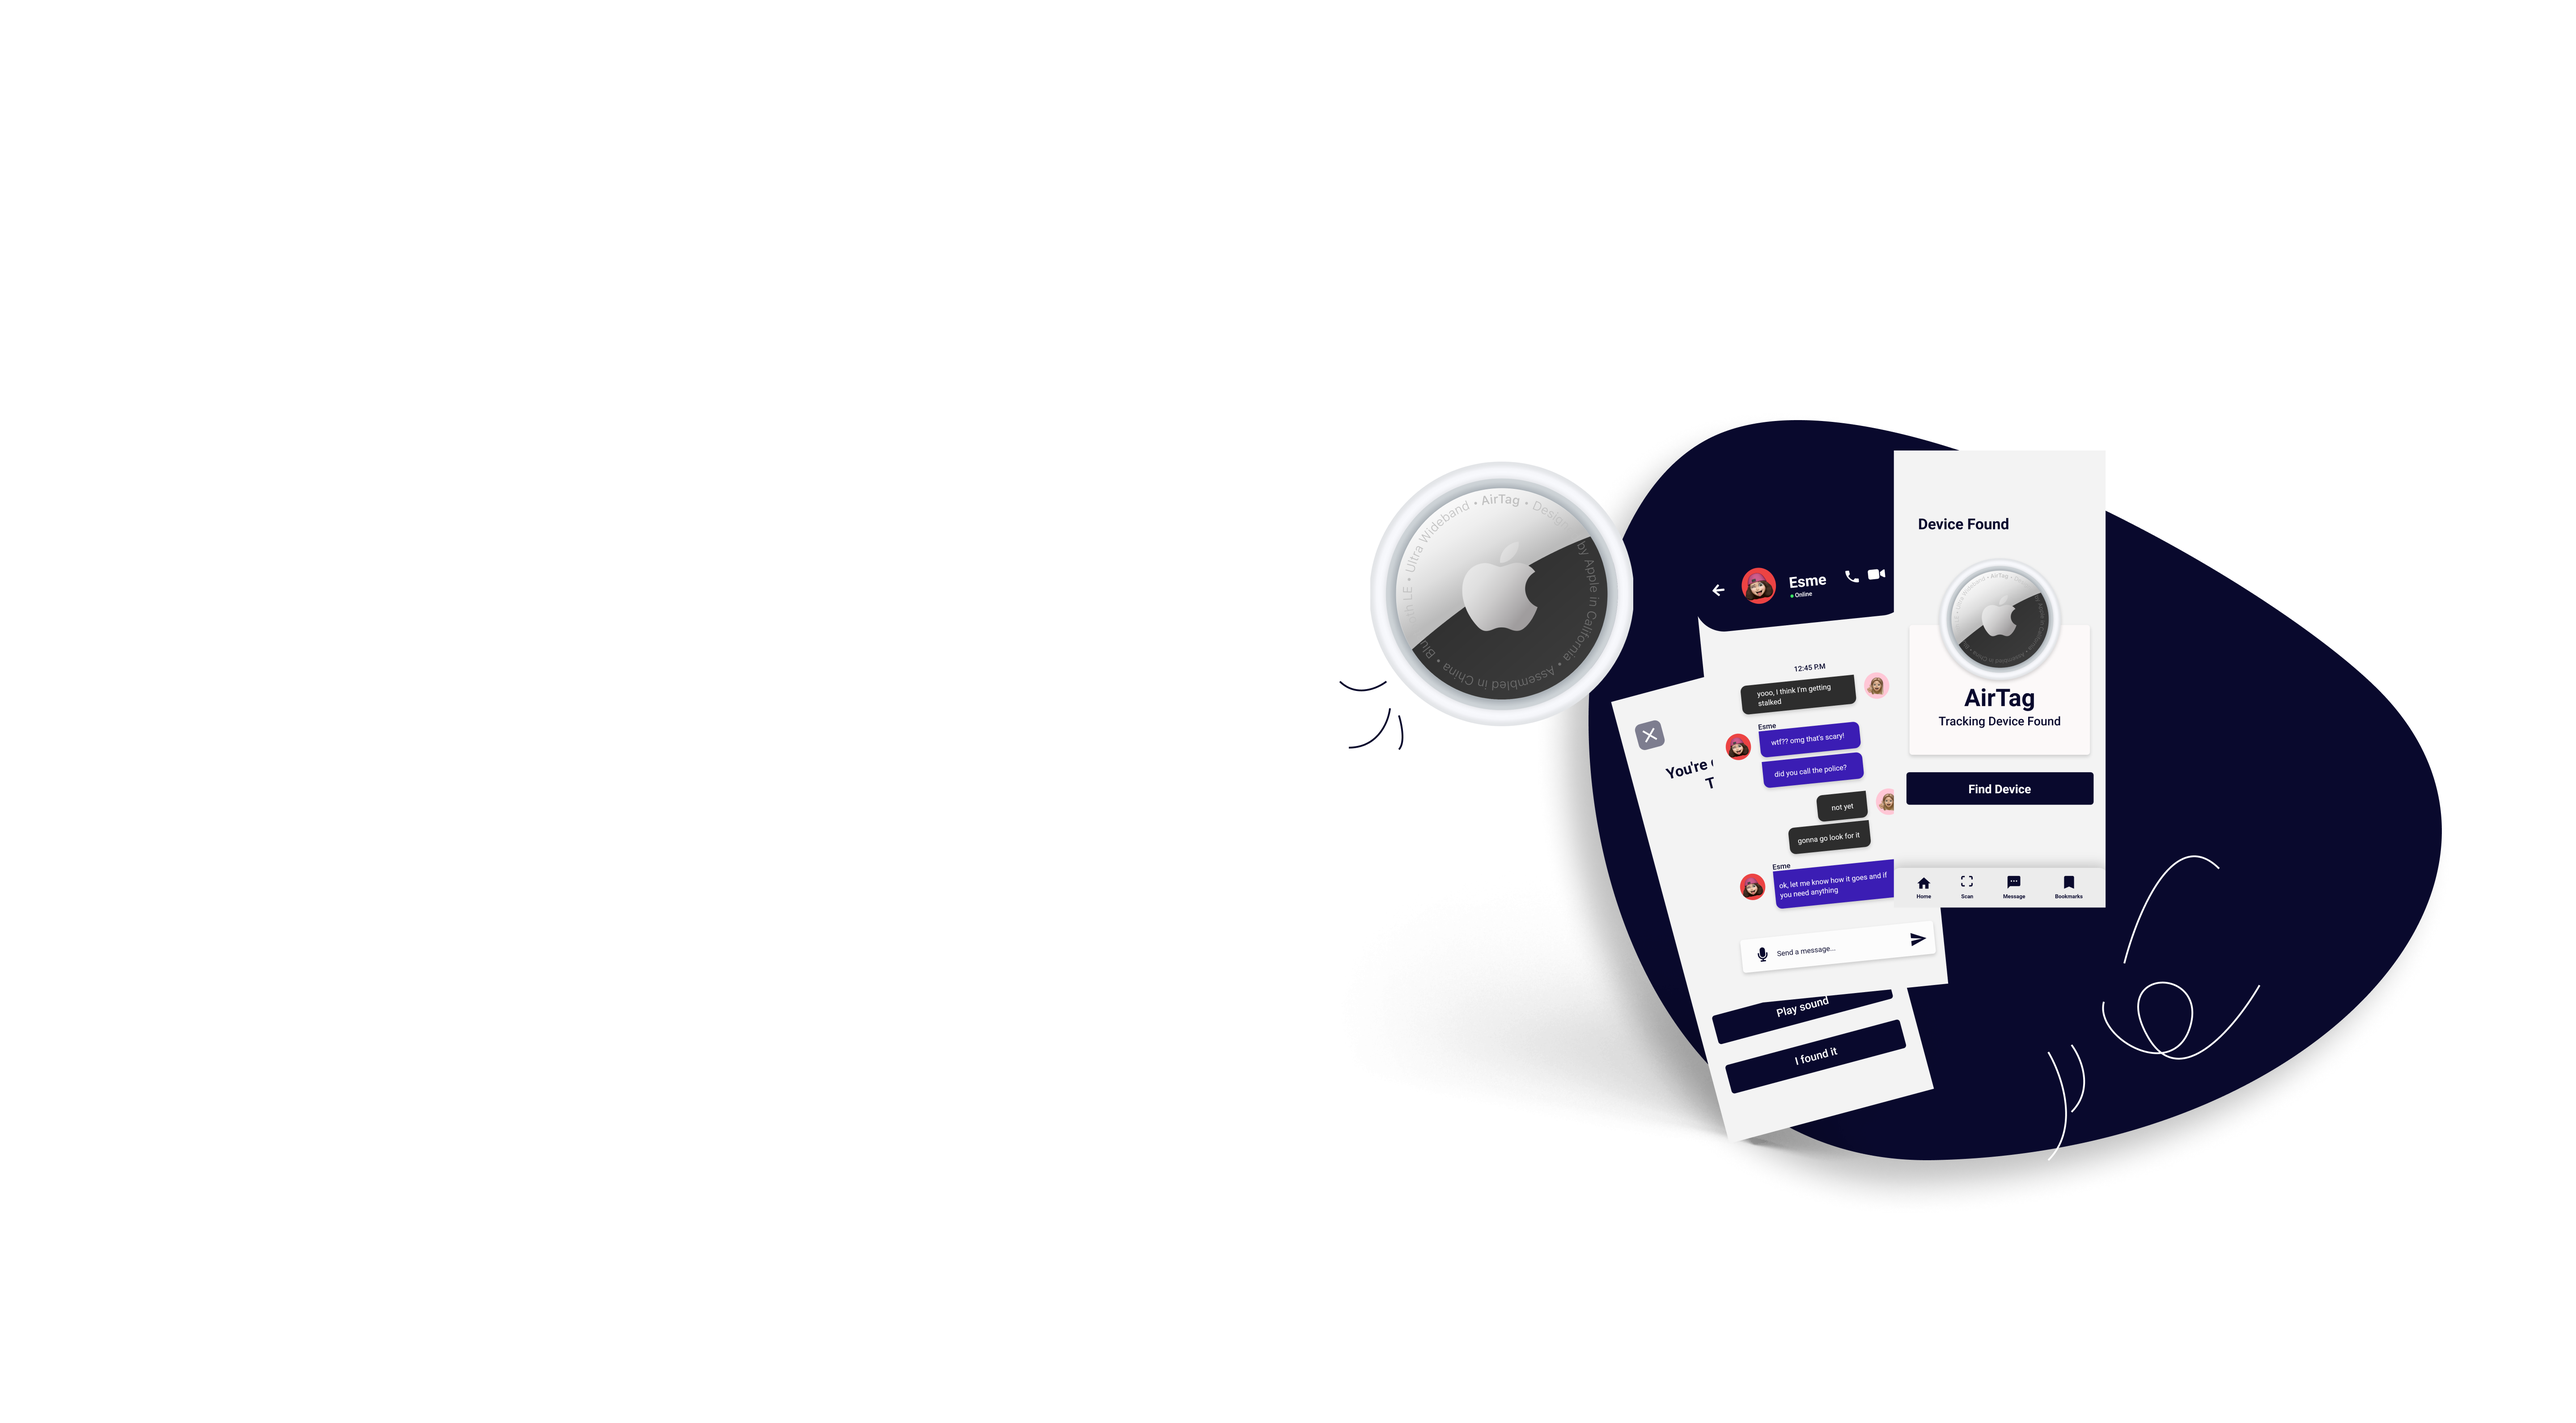
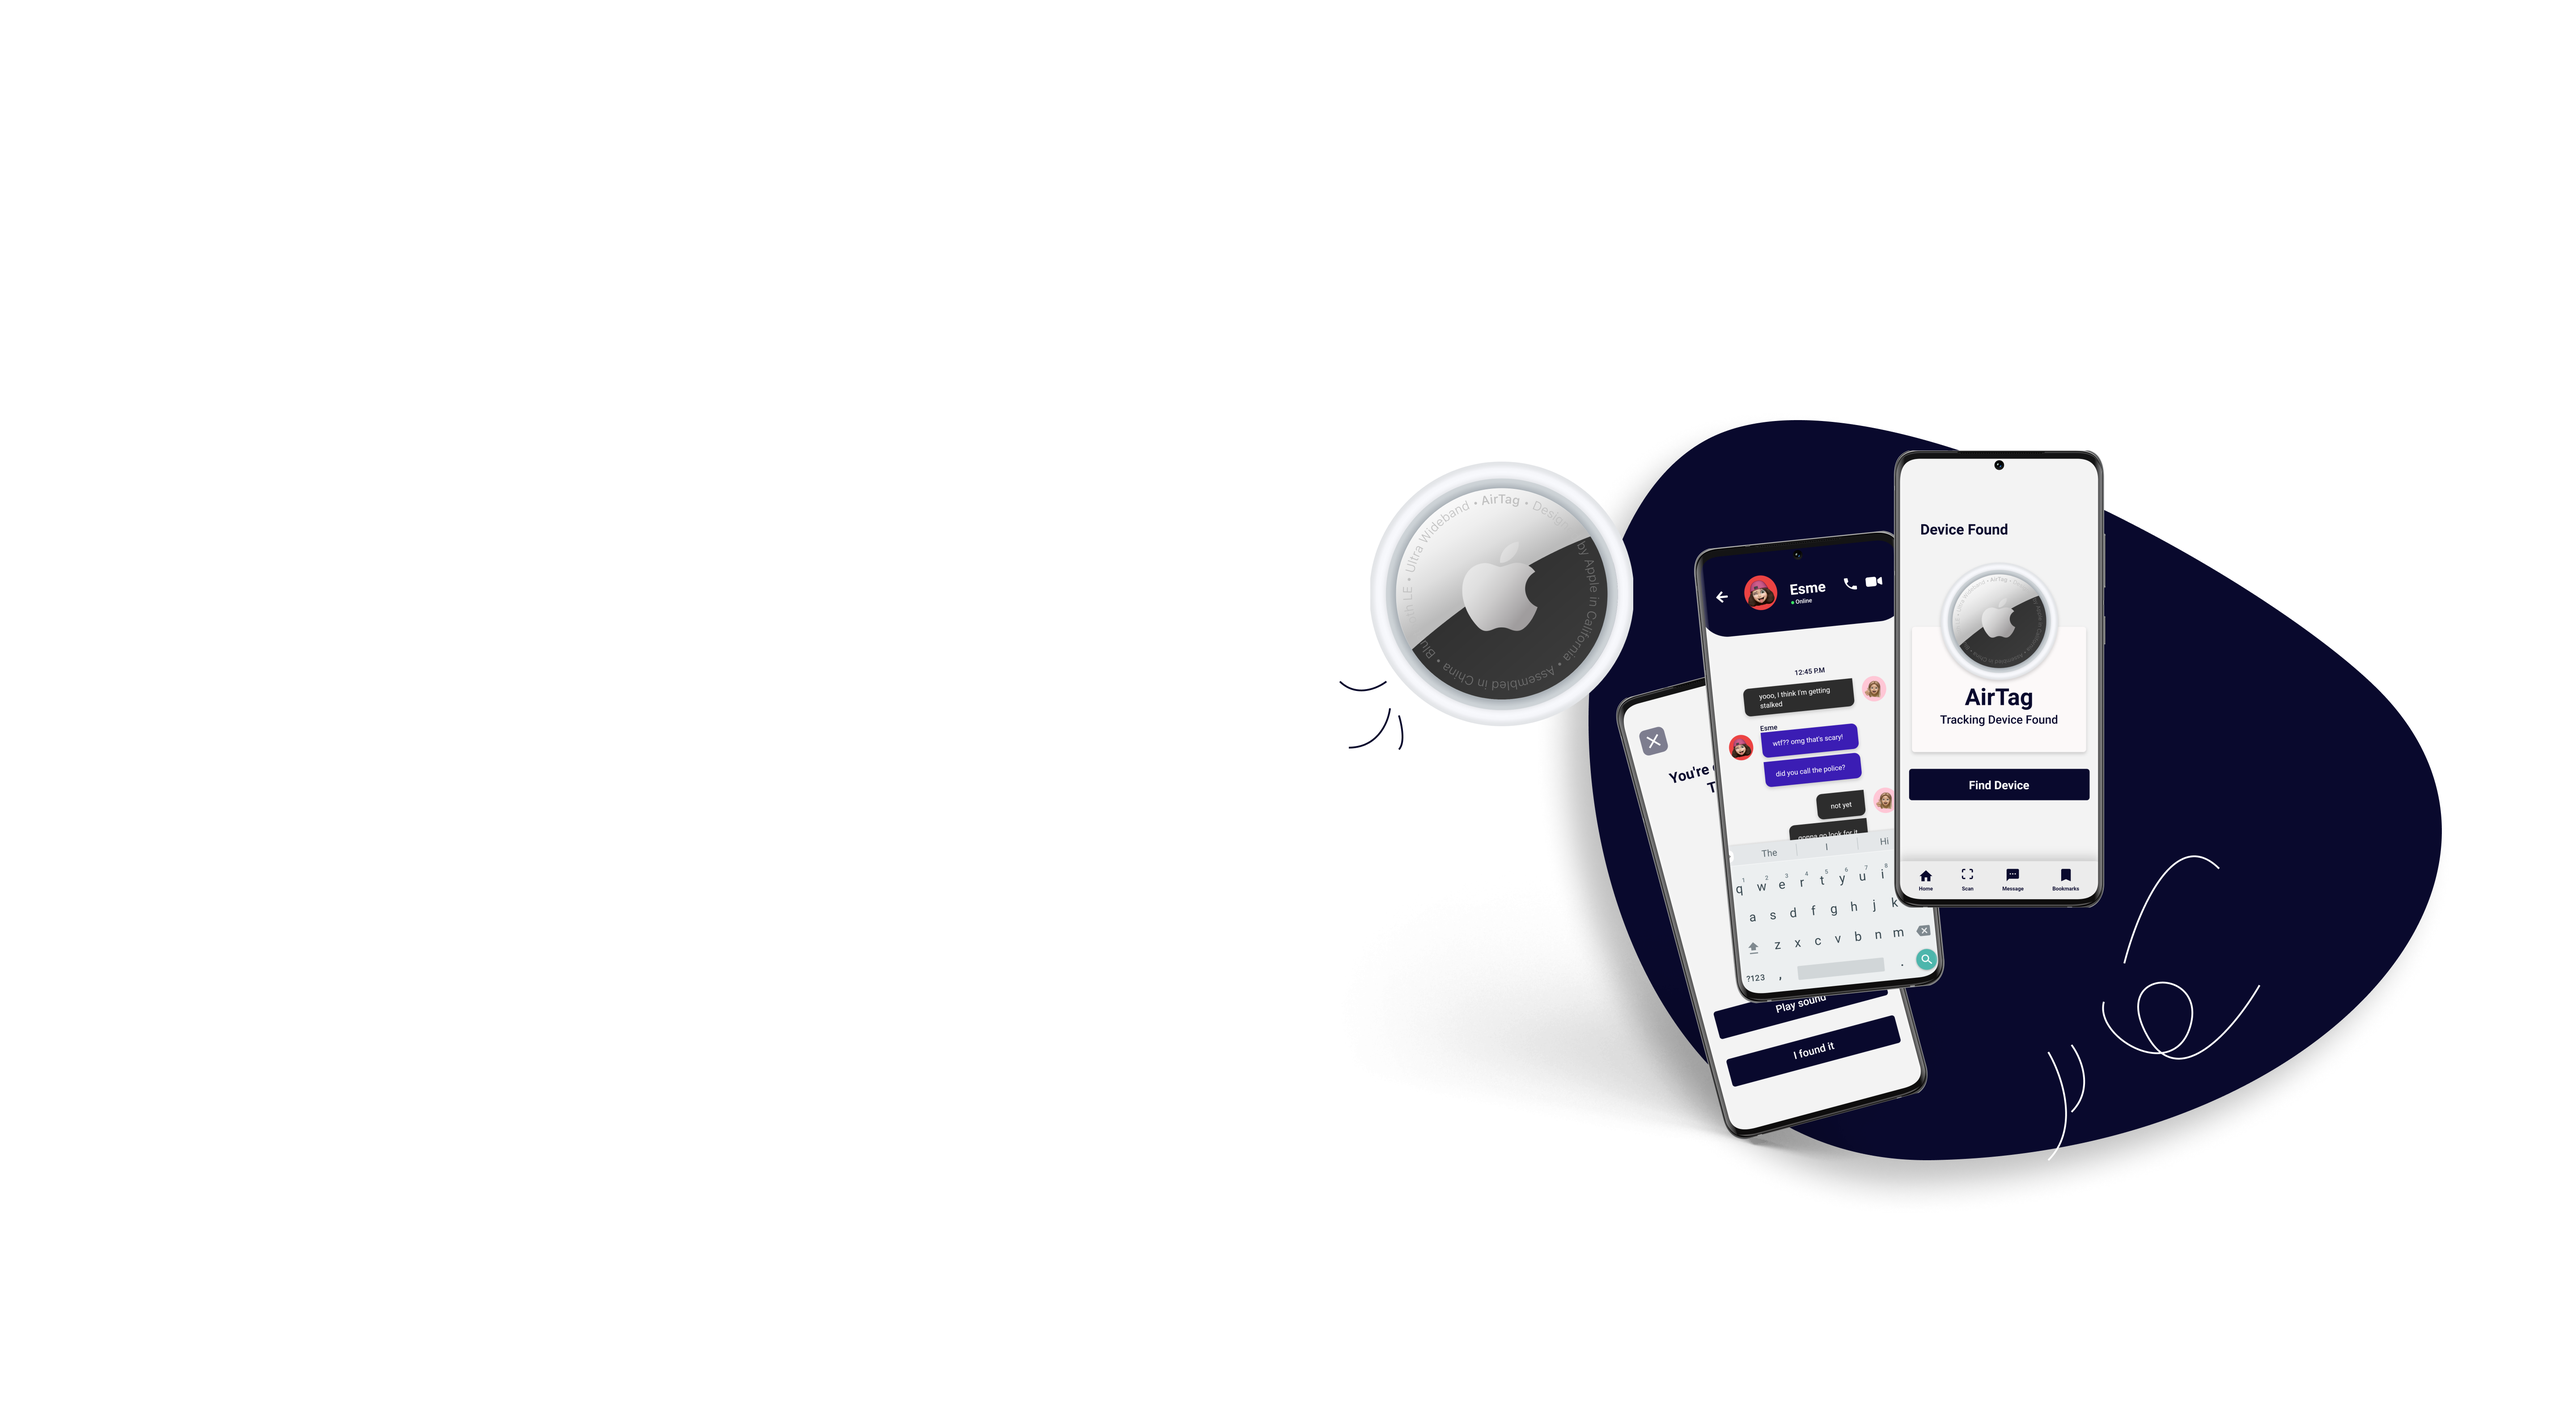
Added new files

Changed region(s): [[0.625, 0.3109, 0.8438, 0.8084]]

diff --git a/mysafetii/index.html b/mysafetii/index.html
@@ -151,7 +151,7 @@
     <div class="container-info">
     <section class="columns">
         <div class="column">
-           <img class="img-pic" src="img/tracking  new 2.png">
+           <img class="img-pic" src="img/Group 53.png">
         </div>
     <div class="column">
         <div class="content-text">

diff --git a/mysafetii/style.css b/mysafetii/style.css
@@ -365,7 +365,7 @@ section.features p {
     margin-left: 5rem;
     margin-bottom: 5rem;
     margin-top: 5rem;
-    box-shadow: 0px 10px 10px 0px #2b2b2e4a;
+    /* box-shadow: 0px 10px 10px 0px #2b2b2e4a; */
 }
 
 .img-pic-two{
